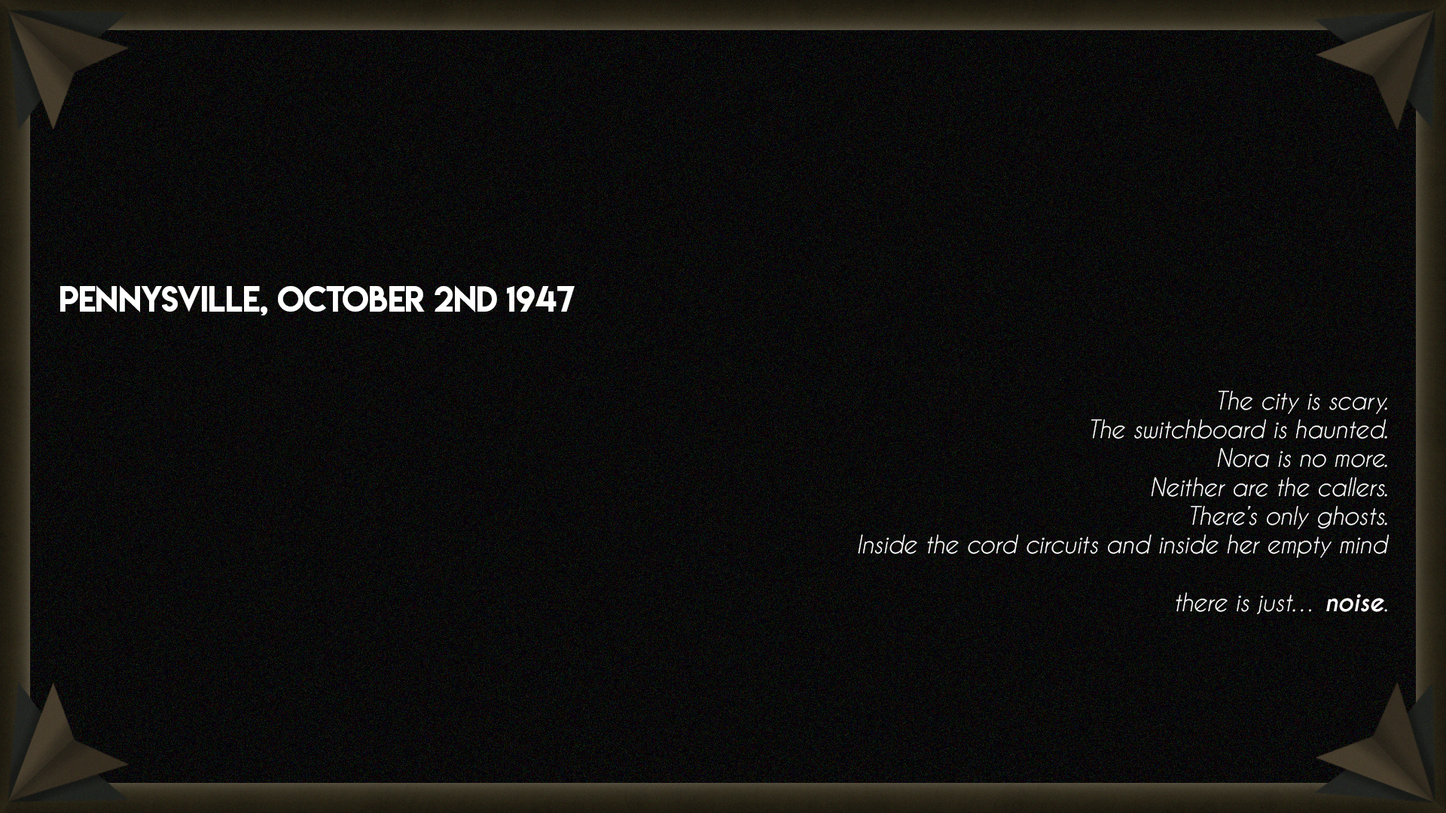
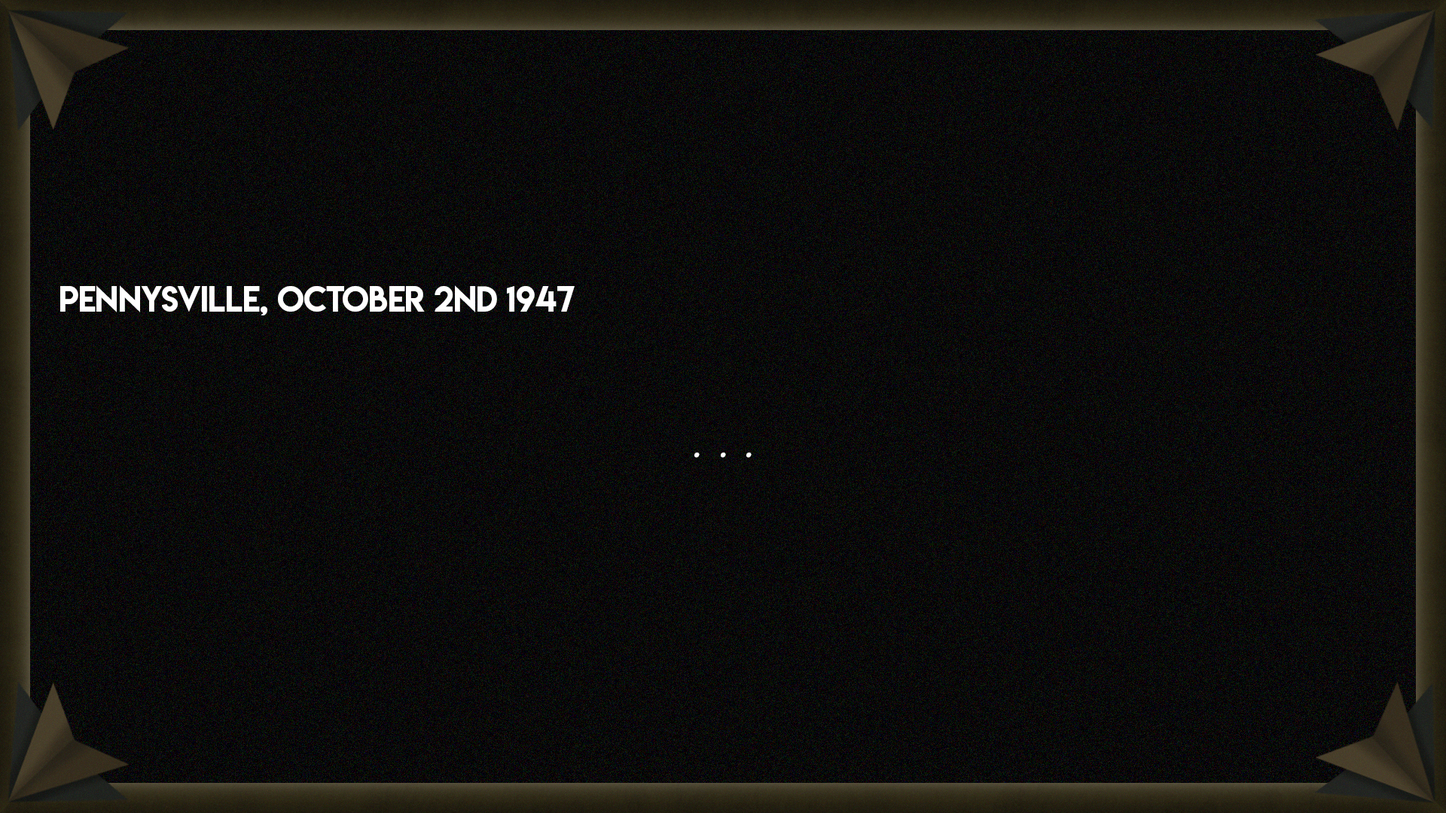
wip

Changed region(s): [[0.75, 0.4889, 0.9688, 0.7028], [0.8125, 0.7333, 0.9688, 0.7639], [0.5938, 0.6417, 0.6562, 0.7028]]

diff --git a/Assets/Scripts/GameplayScreen/GameplayScreen.cs b/Assets/Scripts/GameplayScreen/GameplayScreen.cs
@@ -3,6 +3,7 @@ using UnityEngine.UI;
 using System.Collections.Generic;
 using System.Collections;
 using System.Linq;
+using UnityEngine.SceneManagement;
 
 public class GameplayScreen : MonoBehaviour
 {
@@ -24,6 +25,14 @@ public class GameplayScreen : MonoBehaviour
     public List<Sprite> BackSprites;
     public SpriteRenderer BackSpriteRenderer;
 
+    private CringeTexts cringeTexts;
+    private int currentCringeText;
+
+    public void Awake()
+    {
+        cringeTexts = new CringeTexts();
+    }
+
     public void SetScreenVisibility(bool visible)
     {
         Panel.SetActive(visible);
@@ -33,8 +42,8 @@ public class GameplayScreen : MonoBehaviour
     {
         CallerMsg.text = "";
         ReceiverMsg.text = "";
-        if (GameController._currentRound < 3)
-            BackSpriteRenderer.sprite = BackSprites[GameController._currentRound];
+
+        BackSpriteRenderer.sprite = BackSprites[GameController._currentRound < 3 ? GameController._currentRound : 2];
     }
 
     public void PositionateUserWithSprite(PhoneUser caller, int id)
@@ -65,28 +74,60 @@ public class GameplayScreen : MonoBehaviour
 
     public void ShowCallerMessage(PhoneUser caller)
     {
-        CallerMsg.text = caller.roundTexts[GameController._currentRound]["inicio"].str;
+        if (GameController._currentRound == 3 && TelephoneCentral.HasFinishedRound)
+        {
+            Debug.Log("caller cringe");
+            ShowCringeText(CallerMsg);
+        }
+        else
+        {
+            CallerMsg.text = caller.roundTexts[GameController._currentRound]["inicio"].str;
+        }
 
-        CallerMsgContainer.sprite = GetSprite(caller.Id);
+        CallerMsgContainer.sprite = GetSprite(caller.Id);    
     }
 
     public void ShowReceiverMessage(PhoneUser receiver, bool isRight, int callerId)
     {
-        var strKey = isRight ? "r-positivo" : "r-neutral";
-        if (isRight)
+        if (GameController._currentRound == 3 && TelephoneCentral.HasFinishedRound)
         {
-            if (receiver.roundTexts[GameController._currentRound][strKey].Count > 0)
-                ReceiverMsg.text = receiver.roundTexts[GameController._currentRound][strKey][callerId.ToString()].str;
-            else
-                ReceiverMsg.text = receiver.roundTexts[GameController._currentRound][strKey].str;
+            Debug.Log("receiver cringe");
+            ShowCringeText(ReceiverMsg);
         }
         else
         {
-            ReceiverMsg.text = receiver.roundTexts[GameController._currentRound][strKey].str;
+            var strKey = isRight ? "r-positivo" : "r-neutral";
+            if (isRight)
+            {
+                if (receiver.roundTexts[GameController._currentRound][strKey].Count > 0)
+                    ReceiverMsg.text = receiver.roundTexts[GameController._currentRound][strKey][callerId.ToString()].str;
+                else
+                    ReceiverMsg.text = receiver.roundTexts[GameController._currentRound][strKey].str;
+            }
+            else
+            {
+                ReceiverMsg.text = receiver.roundTexts[GameController._currentRound][strKey].str;
+            }
         }
 
-
         ReceiverMsgContainer.sprite = GetSprite(receiver.Id);
+    }
+
+    private void ShowCringeText(Text textContainer)
+    {
+        textContainer.text = cringeTexts.texts[currentCringeText];
+        currentCringeText++;
+
+        if (currentCringeText == 9)
+        {
+            Board.AllCringeShown();
+            Invoke("ChangeScene", 2.0f);
+        }
+    }
+
+    private void ChangeScene()
+    {
+        SceneManager.LoadScene("Gameover", LoadSceneMode.Single);
     }
 
     private Sprite GetSprite(int Id)

diff --git a/Assets/Scripts/TelephoneCentral.cs b/Assets/Scripts/TelephoneCentral.cs
@@ -32,6 +32,10 @@ public class TelephoneCentral
     private int phoneCallIndex;
     private PhoneCall currentPhoneCall;
 
+    public bool isEndless;
+
+    public static bool HasFinishedRound = false;
+
     public TelephoneCentral(GameController gameController, Board board, StressController stressController, PhoneUsers phoneUsers, SFXController sfxController)
     {
         Instance = this;
@@ -78,10 +82,12 @@ public class TelephoneCentral
         
         phoneCalls.AddRange(roundPhoneCalls);
 
-        if (endlessRound)
-        {
-            gameController.StartCoroutine(GenerateCalls());
-        }
+        isEndless = endlessRound;
+
+        //if (endlessRound)
+        //{
+        //    gameController.StartCoroutine(GenerateCalls());
+        //}
     }
 
     public ConnectionResult ConnectCall(int receptorId)
@@ -161,8 +167,15 @@ public class TelephoneCentral
             } 
         }
 
-        if (phoneCalls.Count(x => x.state == PhoneCallState.FINISHED) == phoneCalls.Count)
+        if (isEndless && phoneCalls.Count(x => x.state == PhoneCallState.FINISHED) == 2 && !HasFinishedRound)
         {
+            Debug.Log("Generate calls");
+            gameController.StartCoroutine(GenerateCalls());
+            HasFinishedRound = true;
+        }
+        else if (phoneCalls.Count(x => x.state == PhoneCallState.FINISHED) == phoneCalls.Count)
+        {
+            Debug.Log("Rodun finish");
             RoundFinish();
         }
     }

diff --git a/Assets/Scripts/CringeTexts.cs b/Assets/Scripts/CringeTexts.cs
@@ -1,0 +1,21 @@
+using System.Collections.Generic;
+using UnityEngine;
+
+public class CringeTexts  {
+
+    public Dictionary<int, string> texts;
+
+    public CringeTexts()
+    {
+        texts = new Dictionary<int, string>();
+
+        var ta = Resources.Load<TextAsset>("cringe");
+        var json = JSONObject.Create(ta.text);
+
+        foreach(var userKey in json.keys)
+        {
+            var key = userKey.ToLower().Substring(userKey.Length - 1);
+            texts[System.Convert.ToInt32(key) - 1] = json[userKey].str;
+        }
+    }
+}

diff --git a/Assets/Scripts/StressController.cs b/Assets/Scripts/StressController.cs
@@ -44,7 +44,7 @@ public class StressController : MonoBehaviour
     public void WrongConnection()
     {
         stressLevel += stressOnError;
-        Debug.Log("wrong connection");
+        //Debug.Log("wrong connection");
     }
 
     private void Update()
@@ -70,7 +70,7 @@ public class StressController : MonoBehaviour
 
         if (stressLevel >= maxStressLevel && OnStressPeak != null)
         {
-            OnStressPeak();
+            //OnStressPeak();
         }
     }
 

diff --git a/Assets/Scripts/Board.cs b/Assets/Scripts/Board.cs
@@ -81,4 +81,11 @@ public class Board : MonoBehaviour {
         if (OnTalkingFinished != null)
             OnTalkingFinished(caller, receiver);
     }
+
+    public void AllCringeShown()
+    {
+        Debug.Log("All cringe shown");
+        board.ForEach(jab => jab.IsEnable(false));
+        //board.ForEach(jab => jab.Reset());
+    }
 }

diff --git a/Assets/Scripts/GameController.cs b/Assets/Scripts/GameController.cs
@@ -89,7 +89,6 @@ public class GameController : MonoBehaviour {
 
     public void NotifyEndOfRound()
     {
-        Debug.Log("ROUND FINISH");
         _currentRound++;
         RoundMusicSource.Stop();
         RoundMusicSource.volume = 0;
